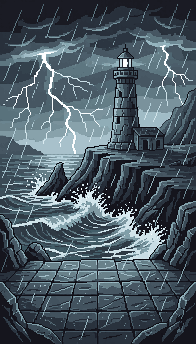
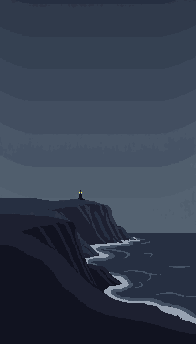
Location arrival paintings redrawn zoomed-out and flat, the Titan looming over the Threshold
All eleven arrival paintings move onto the map paintings' recipe (Pixflux, flat
shading, lineless, low detail): a few silhouette layers and one distant landmark,
replacing the close, highly detailed scenes. The Threshold looks from a cliff
edge at the Titan standing in the valley mist. Scene lights re-placed on each.

diff --git a/src/view/shared/SceneLights.tsx b/src/view/shared/SceneLights.tsx
@@ -27,80 +27,65 @@ const DEFAULT_SIZE: Record<SceneLightKind, number> = { star: 1.2, twinkle: 7 * M
 /** The Locations' arrival paintings (art/locations), by Location id. */
 export const LOCATION_LIGHTS: Record<string, readonly SceneLight[]> = {
   wildsEdge: [
-    { kind: 'star', x: 88, y: 3 },
-    { kind: 'star', x: 95, y: 8 },
-    { kind: 'star', x: 83, y: 12 },
-    { kind: 'star', x: 91, y: 17 },
-    { kind: 'star', x: 97, y: 23 },
-    { kind: 'star', x: 79, y: 5 },
-    { kind: 'firefly', x: 10, y: 89 },
-    { kind: 'firefly', x: 38, y: 91 },
-    { kind: 'firefly', x: 90, y: 87 },
-    { kind: 'firefly', x: 28, y: 77 },
-    { kind: 'firefly', x: 40, y: 78 },
-    { kind: 'firefly', x: 87, y: 75 },
+    { kind: 'moon', x: 46.9, y: 22.6, size: 14 },
+    { kind: 'glimmer', x: 95.7, y: 46.8, rgb: '223, 222, 227' },
+    { kind: 'glimmer', x: 82.9, y: 50.3, rgb: '223, 222, 227' },
+    { kind: 'firefly', x: 84.1, y: 91.6 },
+    { kind: 'firefly', x: 69.7, y: 78.7 },
+    { kind: 'firefly', x: 57.7, y: 86.1 },
+    { kind: 'firefly', x: 28.6, y: 80.7 },
+    { kind: 'firefly', x: 6.9, y: 71.9 },
+    { kind: 'firefly', x: 56, y: 65.3 },
   ],
   necropolis: [
-    { kind: 'moon', x: 67.5, y: 15, size: 32 },
-    { kind: 'star', x: 4, y: 7 },
-    { kind: 'star', x: 13, y: 3 },
-    { kind: 'star', x: 30, y: 9 },
-    { kind: 'star', x: 94, y: 6 },
-    { kind: 'star', x: 53.5, y: 31 },
-    { kind: 'star', x: 72, y: 29 },
-    { kind: 'star', x: 20, y: 20 },
+    { kind: 'moon', x: 47.1, y: 22.6, size: 16 },
+    { kind: 'glimmer', x: 57.3, y: 10.9, rgb: '223, 229, 187' },
+    { kind: 'glimmer', x: 27.2, y: 20.3, rgb: '223, 229, 187' },
+    { kind: 'glimmer', x: 62.4, y: 30.7, rgb: '223, 229, 187' },
+    { kind: 'glimmer', x: 73, y: 20.1, rgb: '223, 229, 187' },
   ],
   moltenFoundry: [
-    { kind: 'flame', x: 55, y: 6, size: 18 },
-    { kind: 'flame', x: 22, y: 12, size: 12 },
-    { kind: 'flame', x: 87, y: 13, size: 14 },
-    { kind: 'flame', x: 53.5, y: 35, size: 26 },
-    { kind: 'flame', x: 51, y: 54, size: 22 },
-    { kind: 'flame', x: 76.5, y: 55, size: 12 },
+    { kind: 'flame', x: 49.4, y: 25, size: 14 },
+    { kind: 'flame', x: 49.2, y: 54.5, size: 14 },
+    { kind: 'glow', x: 51.7, y: 62.7, size: 9, rgb: '255, 110, 40', phase: 0.0 },
+    { kind: 'glow', x: 55, y: 70, size: 12, rgb: '255, 110, 40', phase: 0.6 },
+    { kind: 'glow', x: 55, y: 78, size: 13, rgb: '255, 110, 40', phase: 1.2 },
+    { kind: 'glow', x: 57.4, y: 85.9, size: 12, rgb: '255, 110, 40', phase: 1.8 },
   ],
-  stormCoast: [{ kind: 'beacon', x: 62.5, y: 17.5 }],
+  stormCoast: [{ kind: 'beacon', x: 40.8, y: 55.8, size: 8 }],
   blightedShrine: [
-    { kind: 'glow', x: 18, y: 34, size: 18, rgb: '170, 110, 240' },
-    { kind: 'glow', x: 80, y: 33, size: 20, rgb: '170, 110, 240' },
-    { kind: 'glow', x: 80, y: 44, size: 14, rgb: '170, 110, 240' },
-    { kind: 'glow', x: 50, y: 35, size: 22, rgb: '200, 170, 255' },
-    { kind: 'eye', x: 51, y: 56, size: 7, rgb: '200, 170, 255' },
+    { kind: 'glow', x: 50.8, y: 75.6, size: 24, rgb: '215, 125, 237' },
+    { kind: 'glimmer', x: 19.9, y: 10.6, rgb: '228, 176, 238' },
+    { kind: 'glimmer', x: 63.8, y: 17.2, rgb: '228, 176, 238' },
+    { kind: 'glimmer', x: 12.2, y: 24.4, rgb: '228, 176, 238' },
+    { kind: 'glimmer', x: 69.9, y: 40.4, rgb: '228, 176, 238' },
   ],
-  dreamingSpires: [
-    { kind: 'moon', x: 63.5, y: 13, size: 56 },
-    { kind: 'glow', x: 49.5, y: 32, size: 8, rgb: '255, 150, 190' },
-  ],
+  dreamingSpires: [{ kind: 'glow', x: 50, y: 43, size: 40, rgb: '255, 170, 210' }],
   forbiddenForest: [
-    { kind: 'eye', x: 8.5, y: 27.5, rgb: '140, 255, 150', phase: 0.4 },
-    { kind: 'eye', x: 14, y: 27.5, rgb: '140, 255, 150', phase: 0.4 },
-    { kind: 'eye', x: 87.5, y: 30, rgb: '140, 255, 150', phase: 3.1 },
-    { kind: 'eye', x: 93, y: 30, rgb: '140, 255, 150', phase: 3.1 },
-    { kind: 'eye', x: 69.5, y: 31.5, size: 4, rgb: '140, 255, 150', phase: 1.8 },
-    { kind: 'glow', x: 15, y: 40, size: 14, rgb: '120, 230, 170' },
-    { kind: 'glow', x: 85, y: 35, size: 12, rgb: '120, 230, 170' },
+    { kind: 'glow', x: 52, y: 73, size: 16, rgb: '170, 220, 120' },
+    { kind: 'firefly', x: 80.1, y: 22.1 },
+    { kind: 'firefly', x: 63.8, y: 88.1 },
+    { kind: 'firefly', x: 84.7, y: 91.6 },
   ],
   frozenReach: [
-    { kind: 'star', x: 70, y: 13 },
-    { kind: 'star', x: 21, y: 29 },
-    { kind: 'star', x: 87.5, y: 36 },
-    { kind: 'star', x: 60, y: 22 },
+    { kind: 'glimmer', x: 96.7, y: 9.2, rgb: '226, 237, 251' },
+    { kind: 'glimmer', x: 15.6, y: 14.1, rgb: '226, 237, 251' },
+    { kind: 'glimmer', x: 91.6, y: 18.8, rgb: '226, 237, 251' },
+    { kind: 'glimmer', x: 27.8, y: 25.7, rgb: '226, 237, 251' },
+    { kind: 'glimmer', x: 49.7, y: 37.6, rgb: '226, 237, 251' },
   ],
   holySanctum: [
-    { kind: 'glow', x: 50, y: 33, size: 24, rgb: '255, 220, 140' },
-    { kind: 'glow', x: 15, y: 19, size: 14, rgb: '255, 220, 140' },
-    { kind: 'glow', x: 84, y: 19, size: 14, rgb: '255, 220, 140' },
-    { kind: 'glow', x: 50, y: 58, size: 16, rgb: '255, 170, 90' },
-    { kind: 'candle', x: 4, y: 95 },
-    { kind: 'candle', x: 94.5, y: 95 },
-    { kind: 'candle', x: 18, y: 84 },
-    { kind: 'candle', x: 82, y: 84 },
-    { kind: 'candle', x: 32, y: 75 },
-    { kind: 'candle', x: 67, y: 75 },
-    { kind: 'candle', x: 9, y: 66 },
-    { kind: 'candle', x: 89, y: 66 },
+    { kind: 'glow', x: 52, y: 28, size: 34, rgb: '255, 220, 140' },
+    { kind: 'candle', x: 52.3, y: 33.1, size: 3 },
+    { kind: 'candle', x: 55.9, y: 33.1, size: 3 },
+    { kind: 'candle', x: 59.4, y: 33.1, size: 3 },
+    { kind: 'glow', x: 50, y: 75, size: 14, rgb: '255, 190, 130' },
   ],
-  theThreshold: [{ kind: 'glow', x: 55, y: 38, size: 12, rgb: '220, 230, 190' }],
-  thunderAerie: [{ kind: 'glow', x: 58, y: 15, size: 42, rgb: '200, 150, 255' }],
+  theThreshold: [
+    { kind: 'eye', x: 52.3, y: 18.6, size: 4, rgb: '242, 71, 220', phase: 2.2 },
+    { kind: 'eye', x: 56.9, y: 18.6, size: 4, rgb: '242, 71, 220', phase: 2.2 },
+  ],
+  thunderAerie: [{ kind: 'glow', x: 50, y: 34.4, size: 22, rgb: '200, 150, 255' }],
 };
 
 /**
